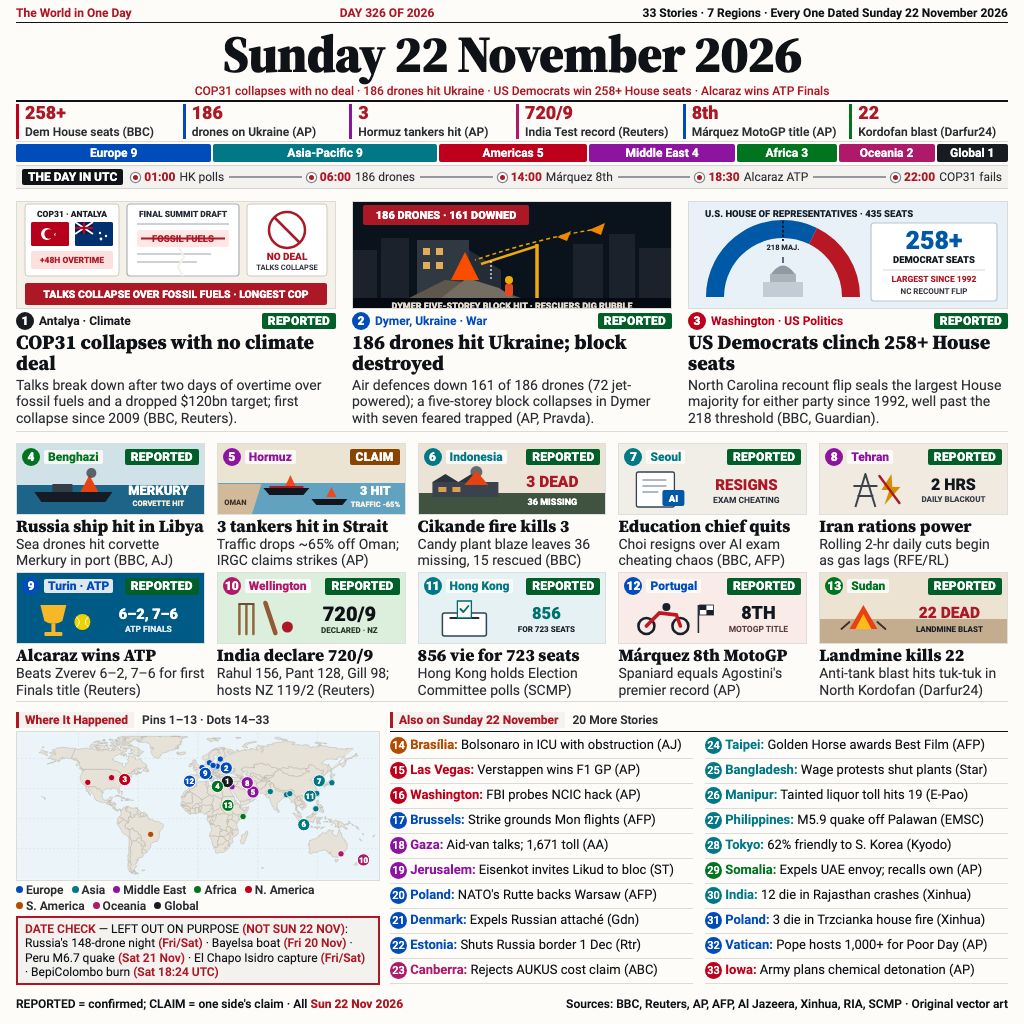
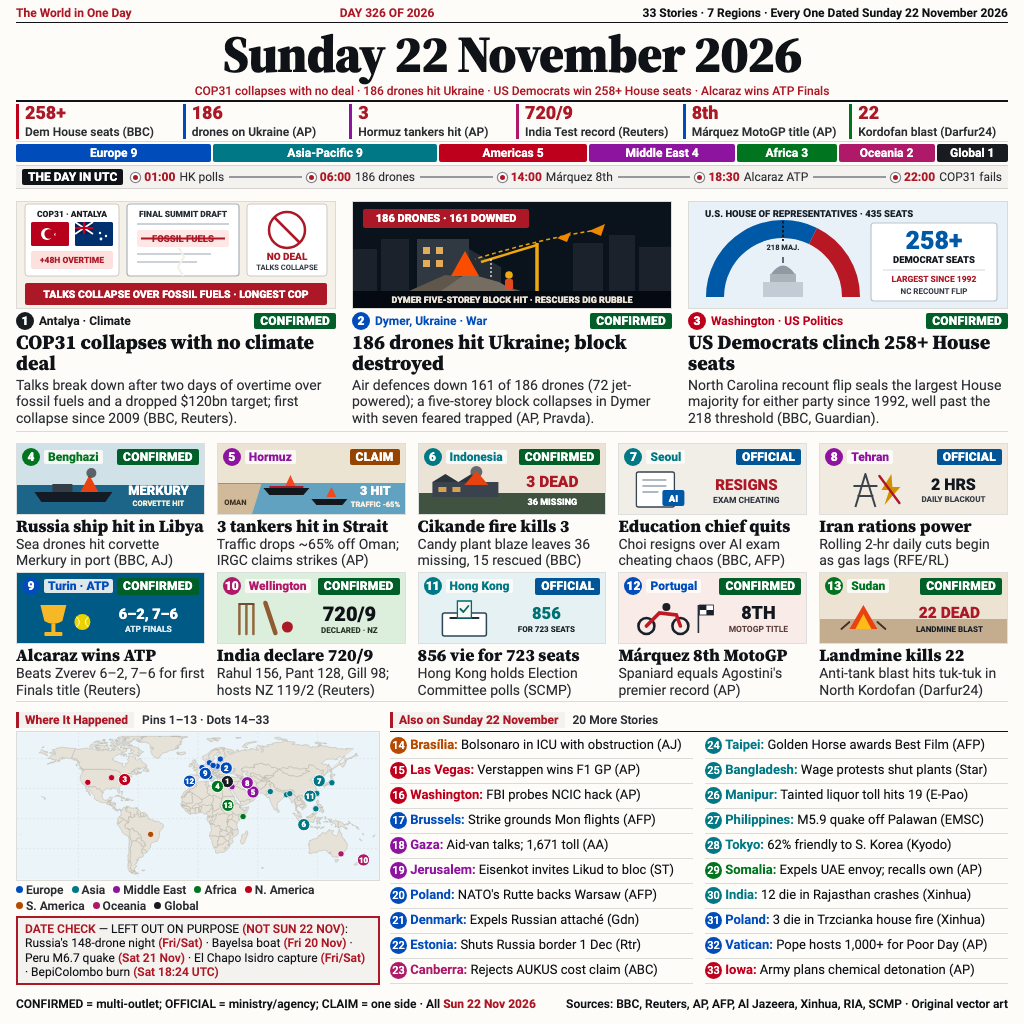
Round 14: 3-tier CONFIRMED/OFFICIAL/CLAIM badges and Lead #2 108px alignment

diff --git a/index.html b/index.html
@@ -15,7 +15,8 @@
     --rule: oklch(0.18 0.01 260 / 0.14);
     --scarlet: oklch(0.48 0.18 24);
     --badge-confirmed: oklch(0.42 0.12 152);
-    --badge-official: oklch(0.46 0.13 65);
+    --badge-official: oklch(0.44 0.13 248);
+    --badge-claim: oklch(0.48 0.14 60);
   }
   * { box-sizing: border-box; margin: 0; padding: 0; }
   html, body {
@@ -215,6 +216,7 @@
   }
   .badge-confirmed { background: var(--badge-confirmed); }
   .badge-official { background: var(--badge-official); }
+  .badge-claim { background: var(--badge-claim); }
   .lead-card h2 {
     font-family: "Source Serif 4", Georgia, serif;
     font-weight: 800;
@@ -489,49 +491,49 @@
               <span class="num-circle" style="background:oklch(0.22 0.01 260)">1</span>
               <span class="loc-txt" style="color:oklch(0.22 0.01 260)">Antalya · Climate</span>
             </span>
-            <span class="badge badge-confirmed">REPORTED</span>
+            <span class="badge badge-confirmed">CONFIRMED</span>
           </div>
           <h2>COP31 collapses with no climate deal</h2>
           <p>Talks break down after two days of overtime over fossil fuels and a dropped $120bn target; first collapse since 2009 (BBC, Reuters).</p>
         </article><article class="lead-card">
           <div class="lead-art">
-    <svg viewBox="0 0 318 118" preserveAspectRatio="xMidYMid slice" width="100%" height="100%" xmlns="http://www.w3.org/2000/svg">
-      <rect width="318" height="118" fill="oklch(0.18 0.025 255)"/>
+    <svg viewBox="0 0 318 108" preserveAspectRatio="xMidYMid slice" width="100%" height="100%" xmlns="http://www.w3.org/2000/svg">
+      <rect width="318" height="108" fill="oklch(0.18 0.025 255)"/>
       <g fill="oklch(0.25 0.02 255)">
-        <rect x="0" y="54" width="24" height="64"/>
-        <rect x="28" y="42" width="28" height="76"/>
-        <rect x="220" y="48" width="30" height="70"/>
-        <rect x="256" y="38" width="26" height="80"/>
-        <rect x="286" y="52" width="32" height="66"/>
+        <rect x="0" y="48" width="24" height="60"/>
+        <rect x="28" y="38" width="28" height="70"/>
+        <rect x="220" y="42" width="30" height="66"/>
+        <rect x="256" y="34" width="26" height="74"/>
+        <rect x="286" y="46" width="32" height="62"/>
       </g>
-      <rect x="64" y="44" width="52" height="58" fill="oklch(0.34 0.02 250)"/>
-      <polygon points="116,54 148,74 148,102 116,102" fill="oklch(0.29 0.02 250)"/>
+      <rect x="64" y="38" width="52" height="52" fill="oklch(0.34 0.02 250)"/>
+      <polygon points="116,48 148,66 148,90 116,90" fill="oklch(0.29 0.02 250)"/>
       <g fill="oklch(0.78 0.12 75)">
-        <rect x="70" y="52" width="7" height="7"/><rect x="83" y="52" width="7" height="7"/>
-        <rect x="70" y="66" width="7" height="7"/><rect x="83" y="66" width="7" height="7"/>
+        <rect x="70" y="46" width="7" height="7"/><rect x="83" y="46" width="7" height="7"/>
+        <rect x="70" y="59" width="7" height="7"/><rect x="83" y="59" width="7" height="7"/>
       </g>
-      <polygon points="56,102 92,84 128,88 168,102" fill="oklch(0.46 0.02 70)"/>
-      <polygon points="88,102 114,82 146,92 162,102" fill="oklch(0.54 0.02 75)"/>
-      <line x1="184" y1="102" x2="184" y2="48" stroke="oklch(0.78 0.16 78)" stroke-width="3.5"/>
-      <line x1="184" y1="50" x2="128" y2="68" stroke="oklch(0.78 0.16 78)" stroke-width="2.5"/>
-      <line x1="138" y1="65" x2="138" y2="85" stroke="white" stroke-width="1.2" stroke-dasharray="2 2"/>
-      <circle cx="156" cy="84" r="4" fill="oklch(0.78 0.16 78)"/>
-      <rect x="152" y="88" width="8" height="12" rx="2" fill="oklch(0.62 0.20 35)"/>
-      <polygon points="98,84 112,56 126,84" fill="oklch(0.66 0.22 38)"/>
-      <path d="M238,34 Q188,42 122,64" fill="none" stroke="oklch(0.76 0.16 75)" stroke-width="1.5" stroke-dasharray="4 3"/>
-      <polygon points="236,34 252,27 248,39" fill="oklch(0.72 0.18 65)"/>
-      <polygon points="204,41 218,35 214,45" fill="oklch(0.72 0.18 65)"/>
-      <rect x="0" y="102" width="318" height="16" fill="oklch(0.14 0.02 255)"/>
-      <text x="159" y="113" text-anchor="middle" font-family="Roboto, sans-serif" font-weight="900" font-size="9" fill="oklch(0.90 0.02 85)">DYMER FIVE-STOREY BLOCK HIT · RESCUERS DIG RUBBLE</text>
-      <rect x="10" y="9" width="166" height="20" rx="2" fill="oklch(0.48 0.18 24)"/>
-      <text x="93" y="23" text-anchor="middle" font-family="Roboto, sans-serif" font-weight="900" font-size="11" fill="white">186 DRONES · 161 DOWNED</text>
+      <polygon points="56,90 92,74 128,78 168,90" fill="oklch(0.46 0.02 70)"/>
+      <polygon points="88,90 114,72 146,81 162,90" fill="oklch(0.54 0.02 75)"/>
+      <line x1="184" y1="90" x2="184" y2="42" stroke="oklch(0.78 0.16 78)" stroke-width="3.5"/>
+      <line x1="184" y1="44" x2="128" y2="61" stroke="oklch(0.78 0.16 78)" stroke-width="2.5"/>
+      <line x1="138" y1="58" x2="138" y2="76" stroke="white" stroke-width="1.2" stroke-dasharray="2 2"/>
+      <circle cx="156" cy="74" r="3.8" fill="oklch(0.78 0.16 78)"/>
+      <rect x="152" y="78" width="8" height="11" rx="2" fill="oklch(0.62 0.20 35)"/>
+      <polygon points="98,75 112,50 126,75" fill="oklch(0.66 0.22 38)"/>
+      <path d="M238,30 Q188,38 122,58" fill="none" stroke="oklch(0.76 0.16 75)" stroke-width="1.5" stroke-dasharray="4 3"/>
+      <polygon points="236,30 252,23 248,35" fill="oklch(0.72 0.18 65)"/>
+      <polygon points="204,37 218,31 214,41" fill="oklch(0.72 0.18 65)"/>
+      <rect x="0" y="90" width="318" height="18" fill="oklch(0.14 0.02 255)"/>
+      <text x="159" y="102" text-anchor="middle" font-family="Roboto, sans-serif" font-weight="900" font-size="9" fill="oklch(0.92 0.02 85)">DYMER FIVE-STOREY BLOCK HIT · RESCUERS DIG RUBBLE</text>
+      <rect x="10" y="8" width="166" height="19" rx="2" fill="oklch(0.48 0.18 24)"/>
+      <text x="93" y="21" text-anchor="middle" font-family="Roboto, sans-serif" font-weight="900" font-size="11" fill="white">186 DRONES · 161 DOWNED</text>
     </svg></div>
           <div class="meta-row">
             <span class="meta-left">
               <span class="num-circle" style="background:oklch(0.45 0.19 258)">2</span>
               <span class="loc-txt" style="color:oklch(0.45 0.19 258)">Dymer, Ukraine · War</span>
             </span>
-            <span class="badge badge-confirmed">REPORTED</span>
+            <span class="badge badge-confirmed">CONFIRMED</span>
           </div>
           <h2>186 drones hit Ukraine; block destroyed</h2>
           <p>Air defences down 161 of 186 drones (72 jet-powered); a five-storey block collapses in Dymer with seven feared trapped (AP, Pravda).</p>
@@ -565,7 +567,7 @@
               <span class="num-circle" style="background:oklch(0.50 0.21 24)">3</span>
               <span class="loc-txt" style="color:oklch(0.50 0.21 24)">Washington · US Politics</span>
             </span>
-            <span class="badge badge-confirmed">REPORTED</span>
+            <span class="badge badge-confirmed">CONFIRMED</span>
           </div>
           <h2>US Democrats clinch 258+ House seats</h2>
           <p>North Carolina recount flip seals the largest House majority for either party since 1992, well past the 218 threshold (BBC, Guardian).</p>
@@ -578,7 +580,7 @@
                 <span class="num-circle-sm" style="background:oklch(0.48 0.16 148)">4</span>
                 <span class="mini-loc" style="color:oklch(0.48 0.16 148)">Benghazi</span>
               </span>
-              <span class="badge badge-confirmed">REPORTED</span>
+              <span class="badge badge-confirmed">CONFIRMED</span>
             </div>
             <div class="mini-svg-wrap">
     <svg viewBox="0 0 188 72" preserveAspectRatio="xMidYMid slice" width="100%" height="100%" xmlns="http://www.w3.org/2000/svg">
@@ -603,7 +605,7 @@
                 <span class="num-circle-sm" style="background:oklch(0.47 0.21 322)">5</span>
                 <span class="mini-loc" style="color:oklch(0.47 0.21 322)">Hormuz</span>
               </span>
-              <span class="badge badge-official">CLAIM</span>
+              <span class="badge badge-claim">CLAIM</span>
             </div>
             <div class="mini-svg-wrap">
     <svg viewBox="0 0 188 72" preserveAspectRatio="xMidYMid slice" width="100%" height="100%" xmlns="http://www.w3.org/2000/svg">
@@ -633,7 +635,7 @@
                 <span class="num-circle-sm" style="background:oklch(0.50 0.14 202)">6</span>
                 <span class="mini-loc" style="color:oklch(0.50 0.14 202)">Indonesia</span>
               </span>
-              <span class="badge badge-confirmed">REPORTED</span>
+              <span class="badge badge-confirmed">CONFIRMED</span>
             </div>
             <div class="mini-svg-wrap">
     <svg viewBox="0 0 188 72" preserveAspectRatio="xMidYMid slice" width="100%" height="100%" xmlns="http://www.w3.org/2000/svg">
@@ -658,7 +660,7 @@
                 <span class="num-circle-sm" style="background:oklch(0.50 0.14 202)">7</span>
                 <span class="mini-loc" style="color:oklch(0.50 0.14 202)">Seoul</span>
               </span>
-              <span class="badge badge-confirmed">REPORTED</span>
+              <span class="badge badge-official">OFFICIAL</span>
             </div>
             <div class="mini-svg-wrap">
     <svg viewBox="0 0 188 72" preserveAspectRatio="xMidYMid slice" width="100%" height="100%" xmlns="http://www.w3.org/2000/svg">
@@ -682,7 +684,7 @@
                 <span class="num-circle-sm" style="background:oklch(0.47 0.21 322)">8</span>
                 <span class="mini-loc" style="color:oklch(0.47 0.21 322)">Tehran</span>
               </span>
-              <span class="badge badge-confirmed">REPORTED</span>
+              <span class="badge badge-official">OFFICIAL</span>
             </div>
             <div class="mini-svg-wrap">
     <svg viewBox="0 0 188 72" preserveAspectRatio="xMidYMid slice" width="100%" height="100%" xmlns="http://www.w3.org/2000/svg">
@@ -703,7 +705,7 @@
                 <span class="num-circle-sm" style="background:oklch(0.45 0.19 258)">9</span>
                 <span class="mini-loc" style="color:oklch(0.45 0.19 258)">Turin · ATP</span>
               </span>
-              <span class="badge badge-confirmed">REPORTED</span>
+              <span class="badge badge-confirmed">CONFIRMED</span>
             </div>
             <div class="mini-svg-wrap">
     <svg viewBox="0 0 188 72" preserveAspectRatio="xMidYMid slice" width="100%" height="100%" xmlns="http://www.w3.org/2000/svg">
@@ -726,7 +728,7 @@
                 <span class="num-circle-sm" style="background:oklch(0.50 0.19 355)">10</span>
                 <span class="mini-loc" style="color:oklch(0.50 0.19 355)">Wellington</span>
               </span>
-              <span class="badge badge-confirmed">REPORTED</span>
+              <span class="badge badge-confirmed">CONFIRMED</span>
             </div>
             <div class="mini-svg-wrap">
     <svg viewBox="0 0 188 72" preserveAspectRatio="xMidYMid slice" width="100%" height="100%" xmlns="http://www.w3.org/2000/svg">
@@ -752,7 +754,7 @@
                 <span class="num-circle-sm" style="background:oklch(0.50 0.14 202)">11</span>
                 <span class="mini-loc" style="color:oklch(0.50 0.14 202)">Hong Kong</span>
               </span>
-              <span class="badge badge-confirmed">REPORTED</span>
+              <span class="badge badge-official">OFFICIAL</span>
             </div>
             <div class="mini-svg-wrap">
     <svg viewBox="0 0 188 72" preserveAspectRatio="xMidYMid slice" width="100%" height="100%" xmlns="http://www.w3.org/2000/svg">
@@ -774,7 +776,7 @@
                 <span class="num-circle-sm" style="background:oklch(0.45 0.19 258)">12</span>
                 <span class="mini-loc" style="color:oklch(0.45 0.19 258)">Portugal</span>
               </span>
-              <span class="badge badge-confirmed">REPORTED</span>
+              <span class="badge badge-confirmed">CONFIRMED</span>
             </div>
             <div class="mini-svg-wrap">
     <svg viewBox="0 0 188 72" preserveAspectRatio="xMidYMid slice" width="100%" height="100%" xmlns="http://www.w3.org/2000/svg">
@@ -800,7 +802,7 @@
                 <span class="num-circle-sm" style="background:oklch(0.48 0.16 148)">13</span>
                 <span class="mini-loc" style="color:oklch(0.48 0.16 148)">Sudan</span>
               </span>
-              <span class="badge badge-confirmed">REPORTED</span>
+              <span class="badge badge-confirmed">CONFIRMED</span>
             </div>
             <div class="mini-svg-wrap">
     <svg viewBox="0 0 188 72" preserveAspectRatio="xMidYMid slice" width="100%" height="100%" xmlns="http://www.w3.org/2000/svg">
@@ -840,7 +842,7 @@
     </div>
 
     <div class="footer">
-      <span>REPORTED = confirmed; CLAIM = one side's claim · All <span class="footer-date">Sun 22 Nov 2026</span></span>
+      <span>CONFIRMED = multi-outlet; OFFICIAL = ministry/agency; CLAIM = one side · All <span class="footer-date">Sun 22 Nov 2026</span></span>
       <span>Sources: BBC, Reuters, AP, AFP, Al Jazeera, Xinhua, RIA, SCMP · Original vector art</span>
     </div>
   </div>

diff --git a/build_html.py b/build_html.py
@@ -56,36 +56,36 @@ SVGS: dict[str, str] = {
       <text x="159" y="102" text-anchor="middle" font-family="Roboto, sans-serif" font-weight="900" font-size="10.5" fill="white">TALKS COLLAPSE OVER FOSSIL FUELS · LONGEST COP</text>
     </svg>""",
     'ukraine_strikes': """
-    <svg viewBox="0 0 318 118" preserveAspectRatio="xMidYMid slice" width="100%" height="100%" xmlns="http://www.w3.org/2000/svg">
-      <rect width="318" height="118" fill="oklch(0.18 0.025 255)"/>
+    <svg viewBox="0 0 318 108" preserveAspectRatio="xMidYMid slice" width="100%" height="100%" xmlns="http://www.w3.org/2000/svg">
+      <rect width="318" height="108" fill="oklch(0.18 0.025 255)"/>
       <g fill="oklch(0.25 0.02 255)">
-        <rect x="0" y="54" width="24" height="64"/>
-        <rect x="28" y="42" width="28" height="76"/>
-        <rect x="220" y="48" width="30" height="70"/>
-        <rect x="256" y="38" width="26" height="80"/>
-        <rect x="286" y="52" width="32" height="66"/>
+        <rect x="0" y="48" width="24" height="60"/>
+        <rect x="28" y="38" width="28" height="70"/>
+        <rect x="220" y="42" width="30" height="66"/>
+        <rect x="256" y="34" width="26" height="74"/>
+        <rect x="286" y="46" width="32" height="62"/>
       </g>
-      <rect x="64" y="44" width="52" height="58" fill="oklch(0.34 0.02 250)"/>
-      <polygon points="116,54 148,74 148,102 116,102" fill="oklch(0.29 0.02 250)"/>
+      <rect x="64" y="38" width="52" height="52" fill="oklch(0.34 0.02 250)"/>
+      <polygon points="116,48 148,66 148,90 116,90" fill="oklch(0.29 0.02 250)"/>
       <g fill="oklch(0.78 0.12 75)">
-        <rect x="70" y="52" width="7" height="7"/><rect x="83" y="52" width="7" height="7"/>
-        <rect x="70" y="66" width="7" height="7"/><rect x="83" y="66" width="7" height="7"/>
+        <rect x="70" y="46" width="7" height="7"/><rect x="83" y="46" width="7" height="7"/>
+        <rect x="70" y="59" width="7" height="7"/><rect x="83" y="59" width="7" height="7"/>
       </g>
-      <polygon points="56,102 92,84 128,88 168,102" fill="oklch(0.46 0.02 70)"/>
-      <polygon points="88,102 114,82 146,92 162,102" fill="oklch(0.54 0.02 75)"/>
-      <line x1="184" y1="102" x2="184" y2="48" stroke="oklch(0.78 0.16 78)" stroke-width="3.5"/>
-      <line x1="184" y1="50" x2="128" y2="68" stroke="oklch(0.78 0.16 78)" stroke-width="2.5"/>
-      <line x1="138" y1="65" x2="138" y2="85" stroke="white" stroke-width="1.2" stroke-dasharray="2 2"/>
-      <circle cx="156" cy="84" r="4" fill="oklch(0.78 0.16 78)"/>
-      <rect x="152" y="88" width="8" height="12" rx="2" fill="oklch(0.62 0.20 35)"/>
-      <polygon points="98,84 112,56 126,84" fill="oklch(0.66 0.22 38)"/>
-      <path d="M238,34 Q188,42 122,64" fill="none" stroke="oklch(0.76 0.16 75)" stroke-width="1.5" stroke-dasharray="4 3"/>
-      <polygon points="236,34 252,27 248,39" fill="oklch(0.72 0.18 65)"/>
-      <polygon points="204,41 218,35 214,45" fill="oklch(0.72 0.18 65)"/>
-      <rect x="0" y="102" width="318" height="16" fill="oklch(0.14 0.02 255)"/>
-      <text x="159" y="113" text-anchor="middle" font-family="Roboto, sans-serif" font-weight="900" font-size="9" fill="oklch(0.90 0.02 85)">DYMER FIVE-STOREY BLOCK HIT · RESCUERS DIG RUBBLE</text>
-      <rect x="10" y="9" width="166" height="20" rx="2" fill="oklch(0.48 0.18 24)"/>
-      <text x="93" y="23" text-anchor="middle" font-family="Roboto, sans-serif" font-weight="900" font-size="11" fill="white">186 DRONES · 161 DOWNED</text>
+      <polygon points="56,90 92,74 128,78 168,90" fill="oklch(0.46 0.02 70)"/>
+      <polygon points="88,90 114,72 146,81 162,90" fill="oklch(0.54 0.02 75)"/>
+      <line x1="184" y1="90" x2="184" y2="42" stroke="oklch(0.78 0.16 78)" stroke-width="3.5"/>
+      <line x1="184" y1="44" x2="128" y2="61" stroke="oklch(0.78 0.16 78)" stroke-width="2.5"/>
+      <line x1="138" y1="58" x2="138" y2="76" stroke="white" stroke-width="1.2" stroke-dasharray="2 2"/>
+      <circle cx="156" cy="74" r="3.8" fill="oklch(0.78 0.16 78)"/>
+      <rect x="152" y="78" width="8" height="11" rx="2" fill="oklch(0.62 0.20 35)"/>
+      <polygon points="98,75 112,50 126,75" fill="oklch(0.66 0.22 38)"/>
+      <path d="M238,30 Q188,38 122,58" fill="none" stroke="oklch(0.76 0.16 75)" stroke-width="1.5" stroke-dasharray="4 3"/>
+      <polygon points="236,30 252,23 248,35" fill="oklch(0.72 0.18 65)"/>
+      <polygon points="204,37 218,31 214,41" fill="oklch(0.72 0.18 65)"/>
+      <rect x="0" y="90" width="318" height="18" fill="oklch(0.14 0.02 255)"/>
+      <text x="159" y="102" text-anchor="middle" font-family="Roboto, sans-serif" font-weight="900" font-size="9" fill="oklch(0.92 0.02 85)">DYMER FIVE-STOREY BLOCK HIT · RESCUERS DIG RUBBLE</text>
+      <rect x="10" y="8" width="166" height="19" rx="2" fill="oklch(0.48 0.18 24)"/>
+      <text x="93" y="21" text-anchor="middle" font-family="Roboto, sans-serif" font-weight="900" font-size="11" fill="white">186 DRONES · 161 DOWNED</text>
     </svg>""",
     'us_house_lead': """
     <svg viewBox="0 0 318 112" preserveAspectRatio="xMidYMid slice" width="100%" height="100%" xmlns="http://www.w3.org/2000/svg">
@@ -239,7 +239,7 @@ SVGS: dict[str, str] = {
 
 
 def badge_html(status: str, kind: str) -> str:
-    cls = 'badge-official' if kind == 'official' else 'badge-confirmed'
+    cls = 'badge-claim' if kind == 'claim' else ('badge-official' if kind == 'official' else 'badge-confirmed')
     return f'<span class="badge {cls}">{html.escape(status)}</span>'
 
 
@@ -424,7 +424,8 @@ def generate_html(data_path: Path, out_html: Path) -> None:
     --rule: oklch(0.18 0.01 260 / 0.14);
     --scarlet: oklch(0.48 0.18 24);
     --badge-confirmed: oklch(0.42 0.12 152);
-    --badge-official: oklch(0.46 0.13 65);
+    --badge-official: oklch(0.44 0.13 248);
+    --badge-claim: oklch(0.48 0.14 60);
   }}
   * {{ box-sizing: border-box; margin: 0; padding: 0; }}
   html, body {{
@@ -624,6 +625,7 @@ def generate_html(data_path: Path, out_html: Path) -> None:
   }}
   .badge-confirmed {{ background: var(--badge-confirmed); }}
   .badge-official {{ background: var(--badge-official); }}
+  .badge-claim {{ background: var(--badge-claim); }}
   .lead-card h2 {{
     font-family: "Source Serif 4", Georgia, serif;
     font-weight: 800;
@@ -881,7 +883,7 @@ def generate_html(data_path: Path, out_html: Path) -> None:
     </div>
 
     <div class="footer">
-      <span>REPORTED = confirmed; CLAIM = one side's claim · All <span class="footer-date">Sun 22 Nov 2026</span></span>
+      <span>CONFIRMED = multi-outlet; OFFICIAL = ministry/agency; CLAIM = one side · All <span class="footer-date">Sun 22 Nov 2026</span></span>
       <span>Sources: BBC, Reuters, AP, AFP, Al Jazeera, Xinhua, RIA, SCMP · Original vector art</span>
     </div>
   </div>
